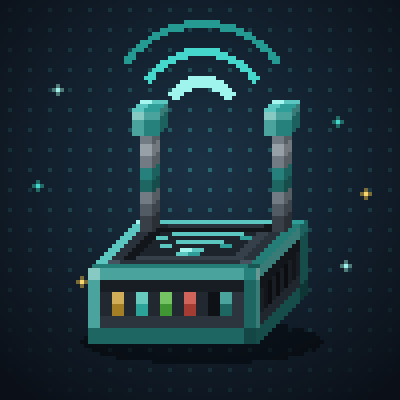
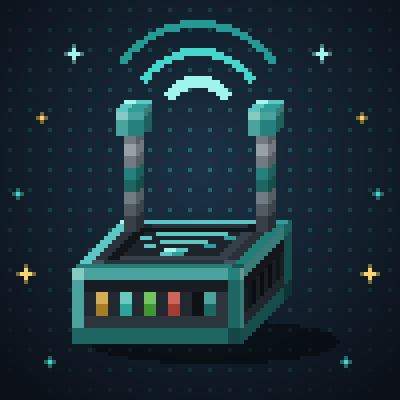
Capa: ondas centradas entre as antenas e faíscas simétricas
O eixo da composição é o meio das duas antenas (achadas na imagem do
roteador) e fica no centro da capa; as faíscas vêm em pares espelhados
em volta dele, fora do roteador.

diff --git a/scripts/curseforge/gerar_capa.py b/scripts/curseforge/gerar_capa.py
@@ -58,12 +58,23 @@ def ondas(img: Image.Image, cx: float, cy: float) -> None:
         d.arc(caixa, start=215, end=325, fill=cor + (255,), width=3 if i == 0 else 2)
 
 
-def faiscas(img: Image.Image) -> None:
-    """Algumas faíscas de 1 px em cruz, como itens voando pela rede."""
-    for (x, y, cor) in ((14, 22, CIANO[3]), (84, 30, CIANO[2]), (20, 70, OURO), (86, 66, CIANO[3]),
-                        (9, 46, CIANO[2]), (91, 48, OURO)):
-        for dx, dy in ((0, 0), (1, 0), (-1, 0), (0, 1), (0, -1)):
-            img.putpixel((x + dx, y + dy), cor + (255,) if (dx, dy) == (0, 0) else tuple(c // 2 for c in cor) + (255,))
+def estrela(img: Image.Image, x: int, y: int, cor: tuple[int, int, int], grande: bool) -> None:
+    """Faísca em cruz: centro claro e braços na metade do brilho (os grandes, com 2 px de braço)."""
+    meia = tuple(c // 2 for c in cor) + (255,)
+    img.putpixel((x, y), cor + (255,))
+    for passo in ((1, 2) if grande else (1,)):
+        for dx, dy in ((passo, 0), (-passo, 0), (0, passo), (0, -passo)):
+            img.putpixel((x + dx, y + dy), cor + (255,) if passo == 1 and grande else meia)
+
+
+def faiscas(img: Image.Image, cx: float) -> None:
+    """Pares espelhados em volta do eixo das ondas: perto delas, nas laterais e embaixo, longe das bordas."""
+    # (distância do eixo, altura, cor, grande): fora do roteador, que ocupa o meio de y 24 a 86.
+    pares = ((31, 13, CIANO[3], True), (40, 29, OURO, False), (45, 48, CIANO[2], False),
+             (43, 68, OURO, True), (37, 90, CIANO[2], False))
+    for dx, y, cor, grande in pares:
+        for x in (round(cx - dx), round(cx + dx)):
+            estrela(img, x, y, cor, grande)
 
 
 # LEDs da frente acesos (na textura do jogo eles ficam apagados: a luz é uma camada à parte).
@@ -90,14 +101,19 @@ def capa() -> Image.Image:
     img = fundo()
     # Sombra elíptica no chão.
     sombra = Image.new("RGBA", (BASE, BASE), (0, 0, 0, 0))
-    ImageDraw.Draw(sombra).ellipse([BASE / 2 - 30, 80, BASE / 2 + 30, 90], fill=(0, 0, 0, 110))
+    ImageDraw.Draw(sombra).ellipse([BASE / 2 - 28, 80, BASE / 2 + 34, 90], fill=(0, 0, 0, 110))
     img.alpha_composite(sombra)
-    x = (BASE - roteador.width) // 2
+    # O eixo da composição é o meio das duas antenas (pontas achadas na própria imagem: colunas
+    # com pixel nas primeiras linhas). O roteador é posto com esse eixo no centro da capa, e as
+    # ondas e as faíscas são simétricas em volta dele.
+    colunas = [cx for cx in range(roteador.width) if any(roteador.getpixel((cx, cy))[3] for cy in range(3))]
+    meio = (colunas[0] + colunas[-1]) / 2
+    x = round(BASE / 2 - meio)
     y = 86 - roteador.height
     img.alpha_composite(roteador, (x, y))
-    # As ondas saem do meio das duas antenas.
-    ondas(img, BASE / 2, y + 4)
-    faiscas(img)
+    centro = x + meio
+    ondas(img, centro, y + 4)
+    faiscas(img, centro)
     return img.resize((BASE * ESCALA, BASE * ESCALA), Image.NEAREST)
 
 
